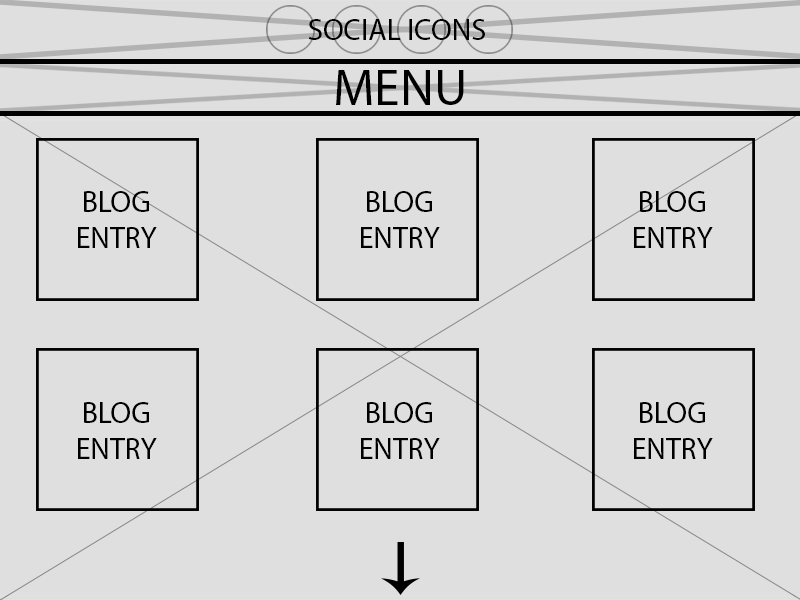
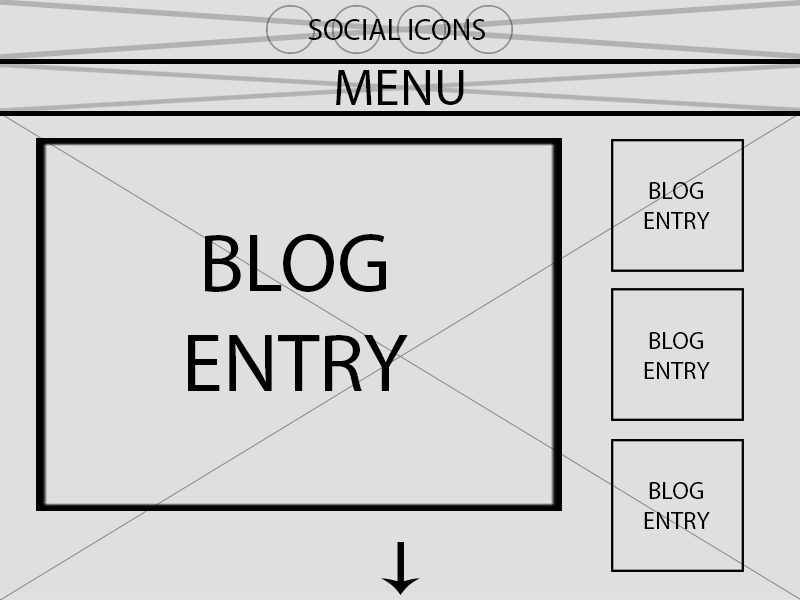
edit blog template

Changed region(s): [[0.0312, 0.21, 0.9688, 0.96], [0.0938, 0.66, 0.1875, 0.78], [0.0938, 0.3, 0.1875, 0.42]]

diff --git a/blog/blog-template.html b/blog/blog-template.html
@@ -8,9 +8,9 @@
   <header class="social-elements">
     <center>
       <img src="../imgs/social-fb.png" alt="Facebook">
-      <img src="../imgs/social-twitter.png" alt="Facebook">
-      <img src="../imgs/social-linkedin.png" alt="Facebook">
-      <img src="../imgs/social-insta.png" alt="Facebook">
+      <img src="../imgs/social-twitter.png" alt="Twitter">
+      <img src="../imgs/social-linkedin.png" alt="LinkedIn">
+      <img src="../imgs/social-insta.png" alt="Instagram">
     </center>
   </header>
 
@@ -28,15 +28,14 @@
   <center><img src="../imgs/custom-line.png" alt="breaker" width="100%"></center>
 
   <div id="blog-content">
-    <ul class="blog-entries">
-      <li class="entry"><a href="#">Entry 1</a></li>
-      <li class="entry"><a href="#">Entry 2</a></li>
-      <li class="entry"><a href="#">Entry 3</a></li>
-      <li class="entry"><a href="#">Entry 4</a></li>
-      <li class="entry"><a href="#">Entry 5</a></li>
-      <li class="entry"><a href="#">Entry 6</a></li>
-    </ul>
+    <a href="#" class="blog-entry">Entry 1</a>
   </div>
+
+  <aside>
+    <a href="#" class="small-blog-link">Entry 2</a>
+    <a href="#" class="small-blog-link">Entry 3</a>
+    <a href="#" class="small-blog-link">Entry 4</a>
+  </aside>
 
   <center><img src="../imgs/down-arrows.png" alt="sliding-arrow" width="30"><center>
 </body>
